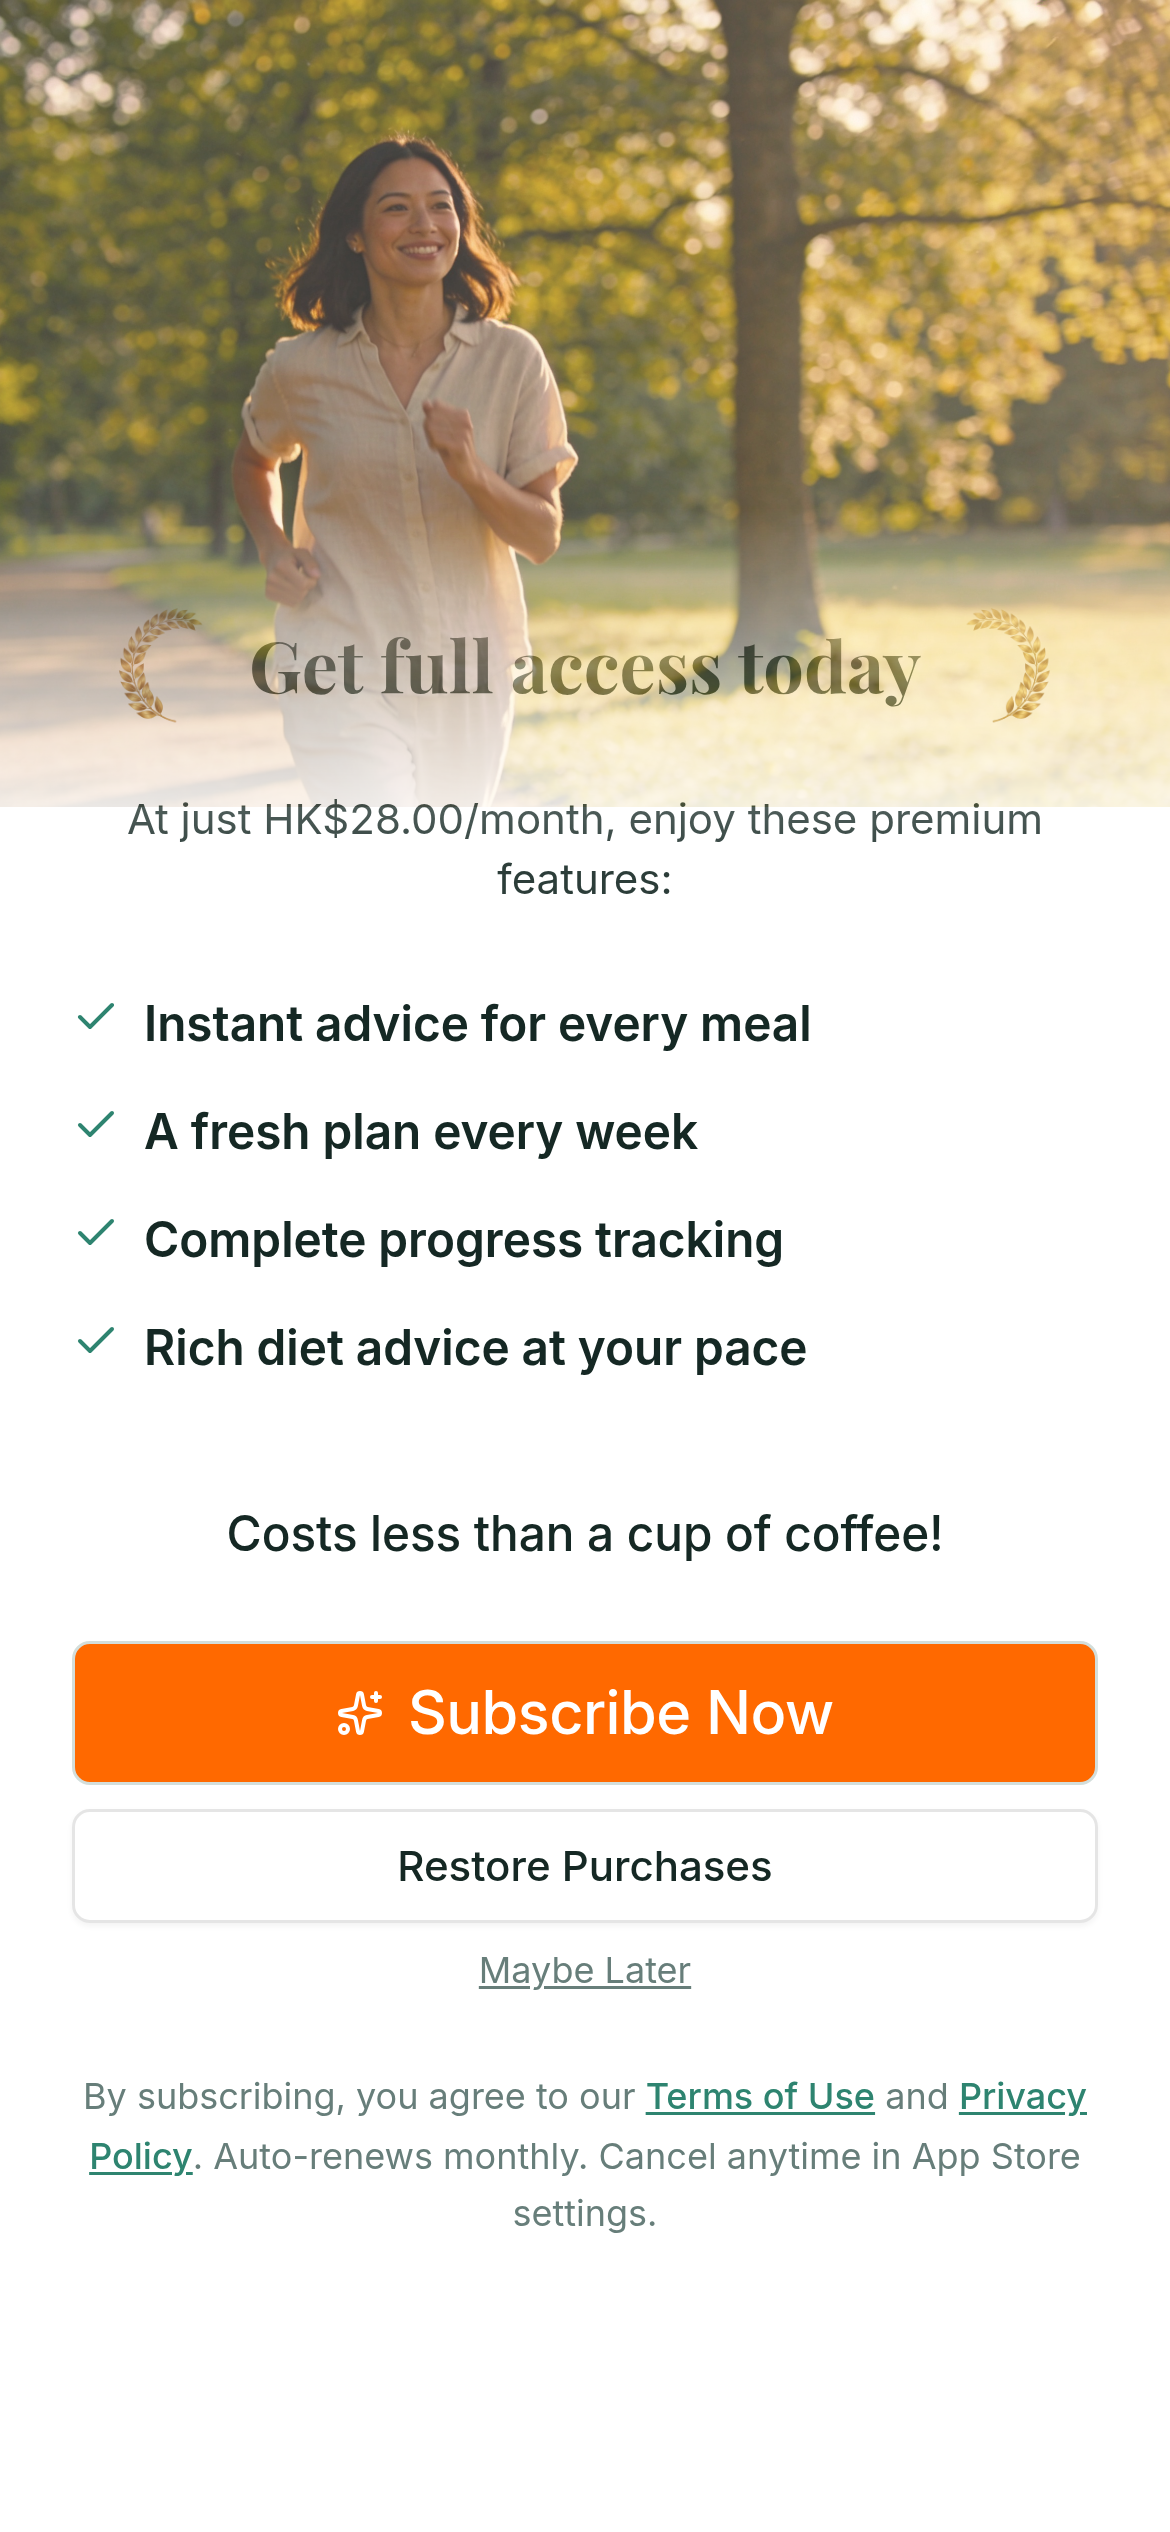
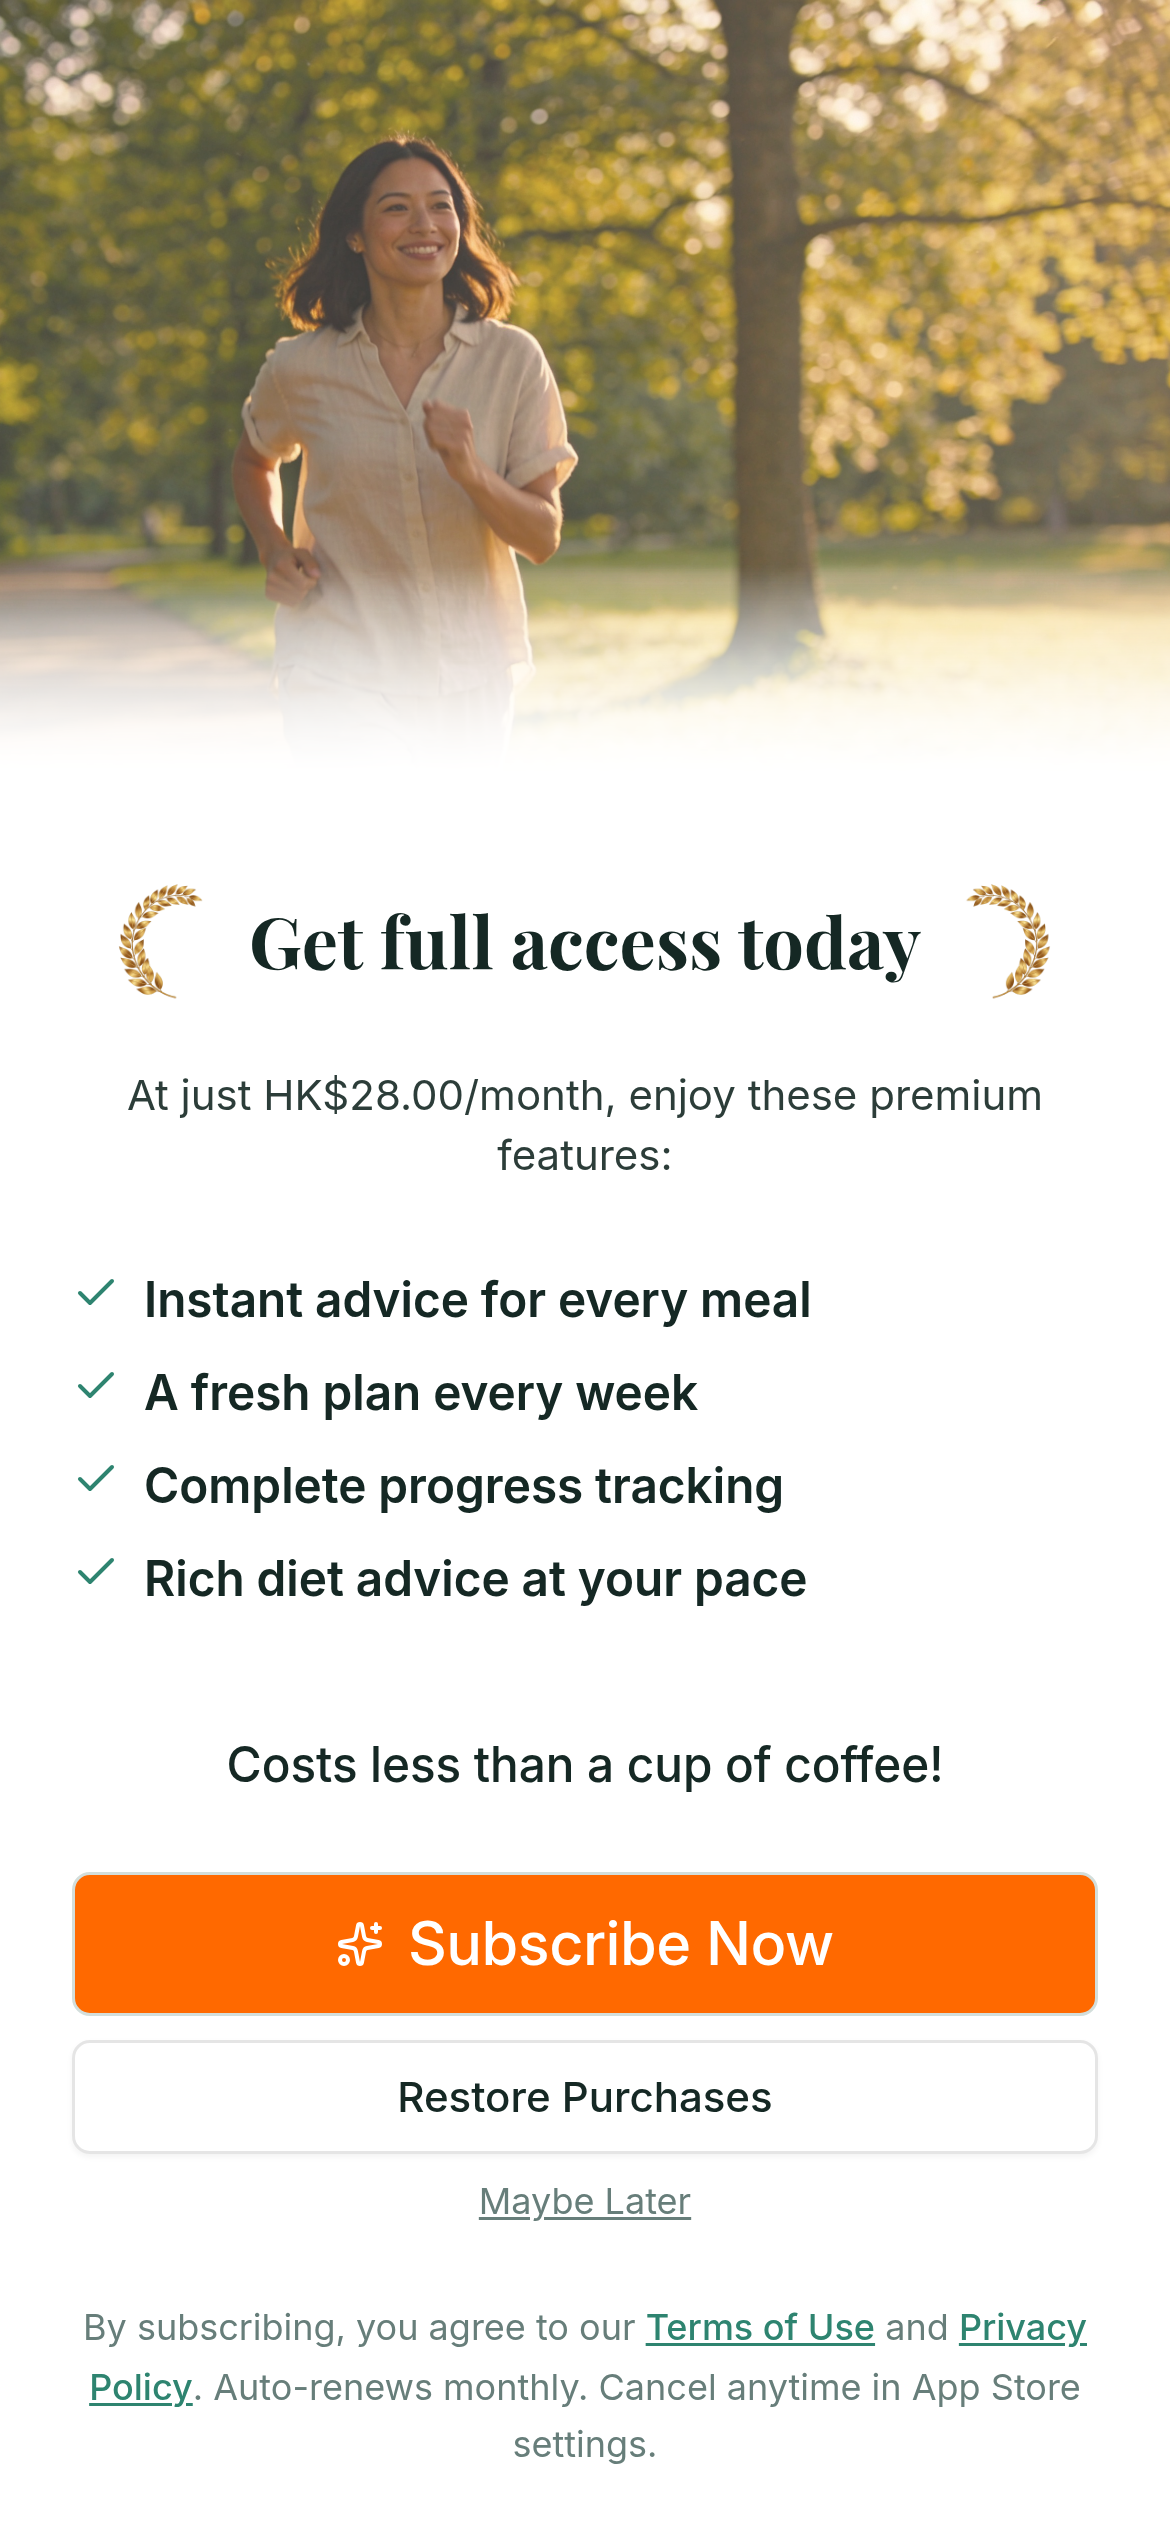
Task #418: Paywall — kill the visible photo edge + tighten feature spacing
Edits in client/src/components/paywall-modal.tsx:

1. Hero <img> now has its own bottom-fade mask (added to inline style):
   linear-gradient(to bottom, #000 0%, #000 70%, transparent 100%)
   The bottom 30% of the photo fades out to fully transparent.

2. Wrapper card-top mask shortened so the fade fully completes by
   110px (was 140px), with a 40px transparent hold at the top so the
   headline area doesn't catch any of the fade:
   linear-gradient(to bottom, transparent 0px, transparent 40px, #000 110px)
   Wrapper still overlaps the photo by mt-[-120px] so the image's
   bottom 70-ish pixels are fading out at the same time the card is
   fading in — the two cross-fade and there is no detectable seam.

3. Laurel headline row pt-12 → pt-[140px] so the "Get full access
   today" text sits clearly below the photo (no runner showing
   through behind the headline or laurels).

4. Features wrapper gap-3 → gap-[7px] (~0.6× the previous inter-row
   spacing across the four feature lines).

Capture flow:
- Restarted artifacts/mockup-sandbox workflow.
- Re-ran scripts/screenshot-paywall-en.mjs (PNG byte size 1,226,258
  → 1,156,602 confirming rebuild took).
- Copied PNG to .canvas/assets/paywall_en.png.
- Updated canvas shape m384-paywall-en src with cache-busted URL.

Verified: photo cross-fades smoothly into the white card with no
visible horizontal edge; headline + laurels sit cleanly below the
photo; four bold feature lines are visibly closer together; all
[…]

diff --git a/client/src/components/paywall-modal.tsx b/client/src/components/paywall-modal.tsx
@@ -125,6 +125,10 @@ export default function PaywallModal({ open, onClose, onPurchaseSuccess, lockApp
               style={{
                 aspectRatio: "16 / 9",
                 opacity: 0.8,
+                WebkitMaskImage:
+                  "linear-gradient(to bottom, #000 0%, #000 70%, transparent 100%)",
+                maskImage:
+                  "linear-gradient(to bottom, #000 0%, #000 70%, transparent 100%)",
               }}
             />
 
@@ -133,15 +137,15 @@ export default function PaywallModal({ open, onClose, onPurchaseSuccess, lockApp
               style={{
                 background: "hsl(var(--popover))",
                 WebkitMaskImage:
-                  "linear-gradient(to bottom, transparent 0px, transparent 20px, #000 140px)",
+                  "linear-gradient(to bottom, transparent 0px, transparent 40px, #000 110px)",
                 maskImage:
-                  "linear-gradient(to bottom, transparent 0px, transparent 20px, #000 140px)",
+                  "linear-gradient(to bottom, transparent 0px, transparent 40px, #000 110px)",
                 marginLeft: "-1.5rem",
                 marginRight: "-1.5rem",
                 width: "calc(100% + 3rem)",
               }}
             >
-            <div className="flex items-center justify-center gap-3 w-full pt-12">
+            <div className="flex items-center justify-center gap-3 w-full pt-[140px]">
               <img
                 src={laurelImg}
                 alt=""
@@ -173,7 +177,7 @@ export default function PaywallModal({ open, onClose, onPurchaseSuccess, lockApp
               {headline}
             </p>
 
-            <div className="w-full flex flex-col gap-3 text-left text-base mt-[26px]">
+            <div className="w-full flex flex-col gap-[7px] text-left text-base mt-[26px]">
               {["feature_plans", "feature_snap", "feature_roadmap", "feature_insights"].map((key) => (
                 <div key={key} className="flex items-start gap-2">
                   <Check className="w-4 h-4 text-primary mt-0.5 shrink-0" />
